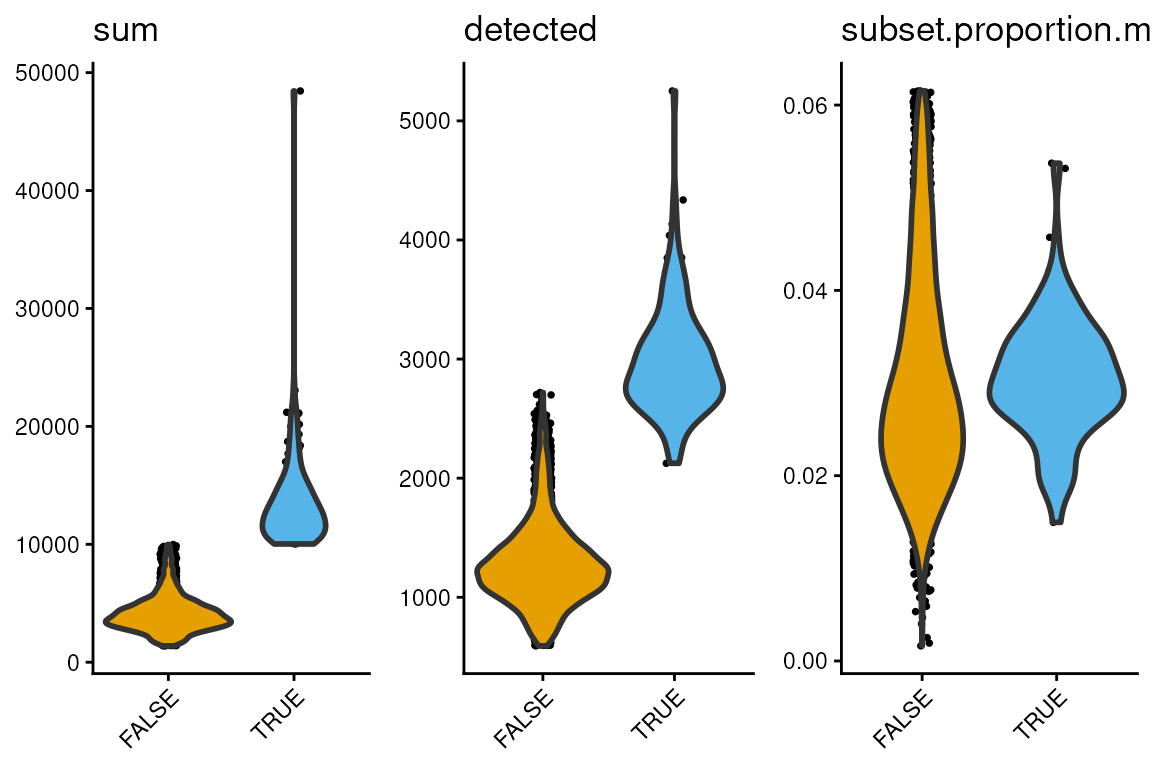
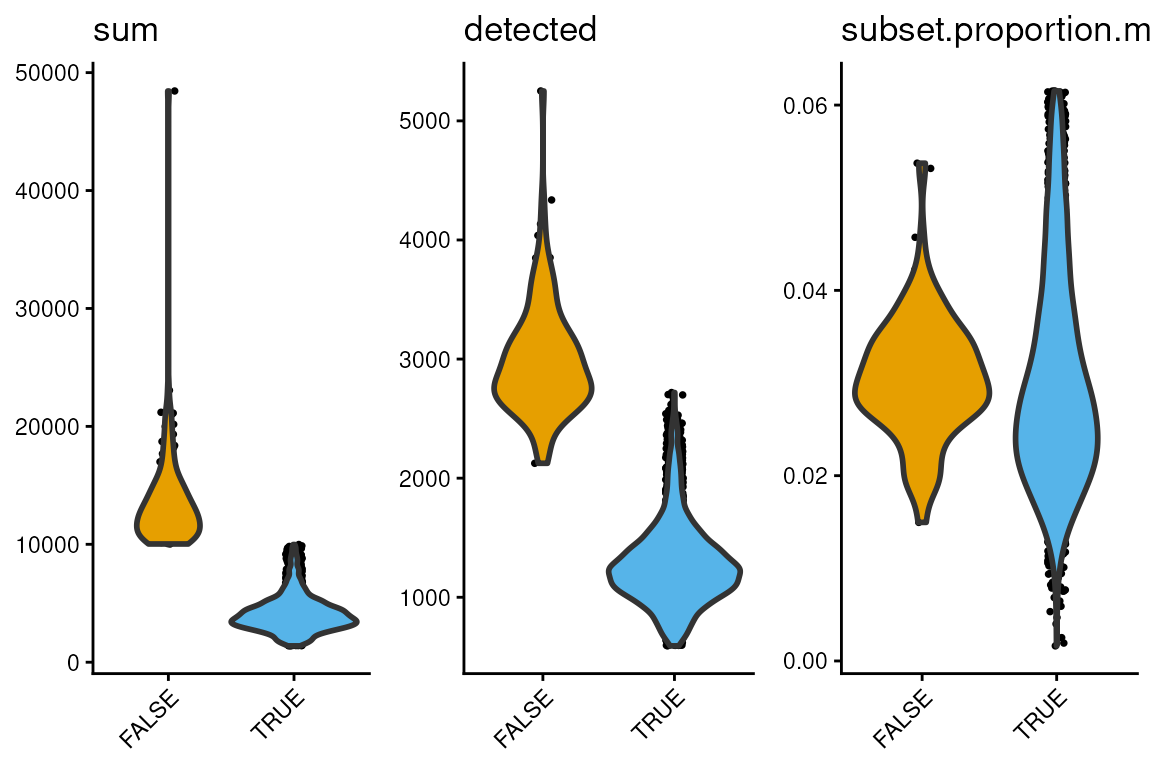
Deploying to gh-pages from @ michaelplynch/foundations-of-single-cell-data-science@8d5ff0e56d87aafd85cc240a441b10af6ee747af 🚀

Changed region(s): [[0.4062, 0.125, 0.6562, 0.8438], [0.7188, 0.0938, 1.0, 0.8438], [0.0938, 0.0938, 0.3125, 0.8438]]

diff --git a/articles/c_singlesample_workflow.html b/articles/c_singlesample_workflow.html
@@ -201,8 +201,8 @@ check and remove duplicate genes first.</p>
 <div class="section level3">
 <h3 id="quality-control">Quality Control<a class="anchor" aria-label="anchor" href="#quality-control"></a>
 </h3>
-<p>The sum of genes, number of nonzero genes, and &amp; genes mapping to
-mitochondrial genes are typcial QC measures for this type of data.</p>
+<p>The sum of genes, number of nonzero genes, and % counts mapping to
+mitochondrial genes are typical QC measures for this type of data.</p>
 <p>quickRnaQc() suggests values below (sum, number of genes) or above
 (&amp; mito) 3 MADs are flagged.</p>
 <div class="sourceCode" id="cb6"><pre class="downlit sourceCode r">
@@ -227,12 +227,12 @@ counts (&gt;10,000 per cell).</p>
 than one cell captured).</p>
 <div class="sourceCode" id="cb8"><pre class="downlit sourceCode r">
 <code class="sourceCode R"><span></span>
-<span><span class="va">sce</span><span class="op">$</span><span class="va">keepmanual</span><span class="op">&lt;-</span><span class="va">sce</span><span class="op">$</span><span class="va">sum</span><span class="op">&gt;</span><span class="fl">10000</span></span>
+<span><span class="va">sce</span><span class="op">$</span><span class="va">keepmanual</span><span class="op">&lt;-</span><span class="va">sce</span><span class="op">$</span><span class="va">sum</span><span class="op">&lt;</span><span class="fl">10000</span></span>
 <span><span class="fu"><a href="https://rdrr.io/pkg/dittoSeq/man/multi_dittoPlot.html" class="external-link">multi_dittoPlot</a></span><span class="op">(</span><span class="va">sce</span>,<span class="fu"><a href="https://rdrr.io/r/base/c.html" class="external-link">c</a></span><span class="op">(</span><span class="st">'sum'</span>,<span class="st">'detected'</span>,<span class="st">'subset.proportion.mito'</span><span class="op">)</span>,group.by<span class="op">=</span><span class="st">'keepmanual'</span><span class="op">)</span></span></code></pre></div>
 <p><img src="c_singlesample_workflow_files/figure-html/unnamed-chunk-8-1.png" class="r-plt" alt="" width="100%"></p>
 <div class="sourceCode" id="cb9"><pre class="downlit sourceCode r">
 <code class="sourceCode R"><span></span>
-<span><span class="va">sce</span><span class="op">&lt;-</span><span class="va">sce</span><span class="op">[</span>,<span class="op">!</span><span class="va">sce</span><span class="op">$</span><span class="va">keepmanual</span><span class="op">]</span></span></code></pre></div>
+<span><span class="va">sce</span><span class="op">&lt;-</span><span class="va">sce</span><span class="op">[</span>,<span class="va">sce</span><span class="op">$</span><span class="va">keepmanual</span><span class="op">]</span></span></code></pre></div>
 </div>
 <div class="section level3">
 <h3 id="dimension-reduction">Dimension Reduction<a class="anchor" aria-label="anchor" href="#dimension-reduction"></a>

diff --git a/articles/c_singlesample_workflow.md b/articles/c_singlesample_workflow.md
@@ -145,8 +145,8 @@ anyDuplicated(rownames(sce))
 
 ### Quality Control
 
-The sum of genes, number of nonzero genes, and & genes mapping to
-mitochondrial genes are typcial QC measures for this type of data.
+The sum of genes, number of nonzero genes, and % counts mapping to
+mitochondrial genes are typical QC measures for this type of data.
 
 quickRnaQc() suggests values below (sum, number of genes) or above (&
 mito) 3 MADs are flagged.
@@ -184,7 +184,7 @@ one cell captured).
 ``` r
 
 
-sce$keepmanual<-sce$sum>10000
+sce$keepmanual<-sce$sum<10000
 multi_dittoPlot(sce,c('sum','detected','subset.proportion.mito'),group.by='keepmanual')
 ```
 
@@ -193,7 +193,7 @@ multi_dittoPlot(sce,c('sum','detected','subset.proportion.mito'),group.by='keepm
 ``` r
 
 
-sce<-sce[,!sce$keepmanual]
+sce<-sce[,sce$keepmanual]
 ```
 
 ### Dimension Reduction
